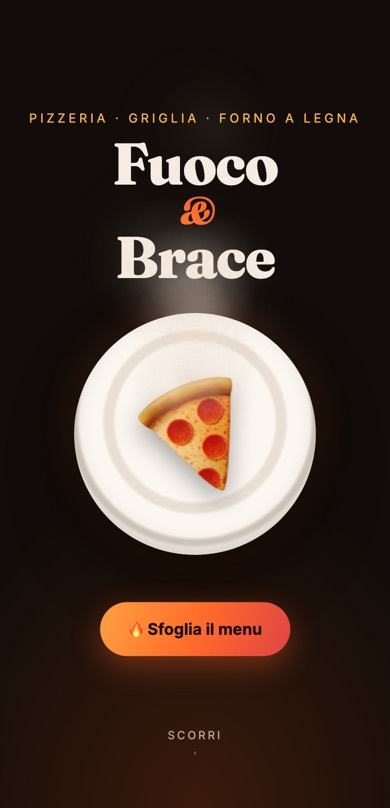
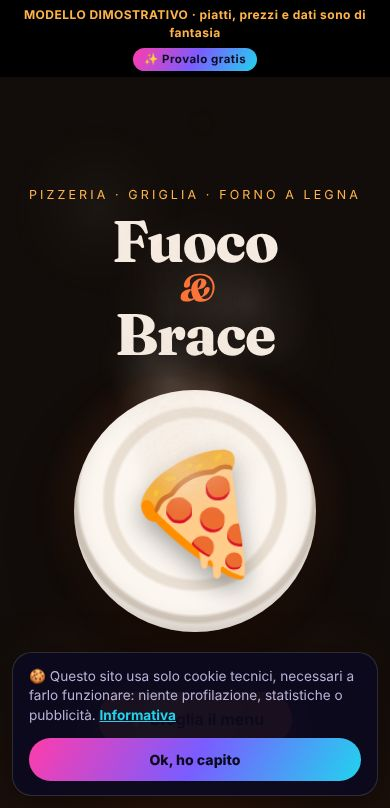
Fuoco & Brace (demo): niente piatto che ruota e niente scritta Scorri
Claude-Session: https://claude.ai/code/session_01UEkUfdT5UxTJz6ejPa121q

diff --git a/demo-fuoco-brace.html b/demo-fuoco-brace.html
@@ -47,7 +47,7 @@ a{color:inherit}
 .glow{position:absolute;inset:-18%;border-radius:50%;background:radial-gradient(circle,rgba(255,106,43,.45),transparent 65%);filter:blur(10px);animation:pulse 3.2s ease-in-out infinite}
 @keyframes pulse{50%{transform:scale(1.08);opacity:.7}}
 .plate{position:absolute;inset:0;border-radius:50%;display:grid;place-items:center;background:radial-gradient(circle at 50% 45%,#fbf6f0 0 44%,#e9dfd3 46% 50%,#fbf6f0 52% 64%,#d8ccbf 66% 68%,#f4ede5 70%);box-shadow:0 30px 60px rgba(0,0,0,.6),inset 0 -8px 20px rgba(0,0,0,.12)}
-.plate .food{font-size:clamp(5rem,30vw,9rem);line-height:1;filter:drop-shadow(0 10px 12px rgba(0,0,0,.35));animation:spin 40s linear infinite}
+.plate .food{font-size:clamp(5rem,30vw,9rem);line-height:1;filter:drop-shadow(0 10px 12px rgba(0,0,0,.35))}
 @keyframes spin{to{transform:rotate(360deg)}}
 .scroll-hint{position:absolute;bottom:22px;left:50%;transform:translateX(-50%);z-index:5;font-size:.7rem;letter-spacing:.2em;text-transform:uppercase;color:var(--sub);display:flex;flex-direction:column;align-items:center;gap:8px}
 .scroll-hint span{width:1px;height:34px;background:linear-gradient(var(--ember),transparent);animation:drip 1.8s ease-in-out infinite;transform-origin:top}
@@ -186,7 +186,6 @@ footer{text-align:center;padding:36px 18px 30px;color:var(--sub);font-size:.85re
     <div class="plate-wrap" id="plate-wrap" aria-hidden="true"><div class="glow"></div><div class="plate"><span class="food">🍕</span></div></div>
     <a class="btn-fire" href="#menu" data-scroll>🔥 Sfoglia il menu</a>
   </div>
-  <div class="scroll-hint" aria-hidden="true">Scorri <span></span></div>
 </header>
 
 <section class="specials" id="specials" aria-labelledby="sp-t">
@@ -473,10 +472,10 @@ if (hasG && !reduced) {
   gsap.from('.title .ch', {yPercent: 110, rotate: 8, duration: 1, ease: 'expo.out', stagger: .05, delay: .15});
   gsap.from('.title .amp', {scale: 0, rotate: -30, duration: .9, ease: 'back.out(2)', delay: .5});
   gsap.from('.kicker', {y: 20, opacity: 0, duration: .8, delay: .1});
-  gsap.from('.plate-wrap', {scale: .4, opacity: 0, rotate: -90, duration: 1.4, ease: 'expo.out', delay: .3});
+  gsap.from('.plate-wrap', {scale: .4, opacity: 0, duration: 1.4, ease: 'expo.out', delay: .3});
   gsap.from('.hero .btn-fire', {y: 30, opacity: 0, duration: .8, delay: .8});
 
-  gsap.to('.plate-wrap', {yPercent: 35, scale: .7, rotate: 60, ease: 'none', scrollTrigger: {trigger: '.hero', start: 'top top', end: 'bottom top', scrub: true}});
+  gsap.to('.plate-wrap', {yPercent: 35, scale: .7, ease: 'none', scrollTrigger: {trigger: '.hero', start: 'top top', end: 'bottom top', scrub: true}});
   gsap.to('.title', {yPercent: -40, opacity: .2, ease: 'none', scrollTrigger: {trigger: '.hero', start: 'top top', end: 'bottom top', scrub: true}});
 
   const sp = $('.specials'), tr = $('#htrack');
@@ -485,7 +484,6 @@ if (hasG && !reduced) {
     sp.classList.add('js-pin');
     const st = {trigger: sp, start: 'top top', end: () => '+=' + amount(), scrub: .8, invalidateOnRefresh: true};
     gsap.to(tr, {x: () => -amount(), ease: 'none', scrollTrigger: Object.assign({pin: true, anticipatePin: 1}, st)});
-    gsap.to('.spec .dish-plate span', {rotate: 360, ease: 'none', scrollTrigger: Object.assign({}, st)});
   }
 
   gsap.set('.dish', {opacity: 0, y: 40});
